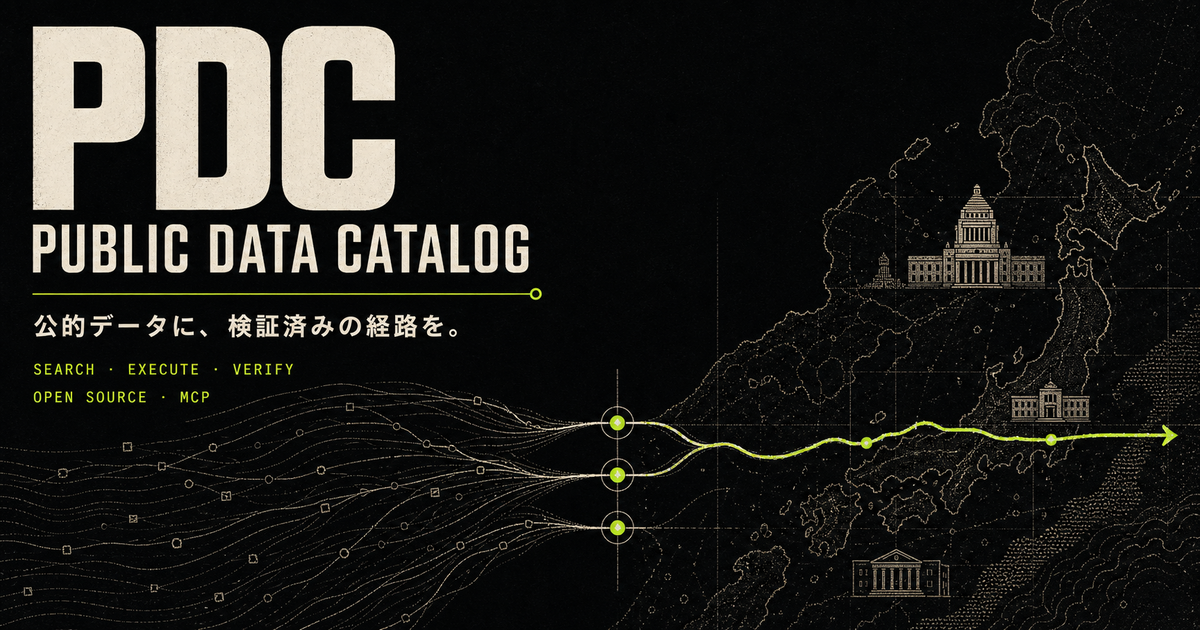
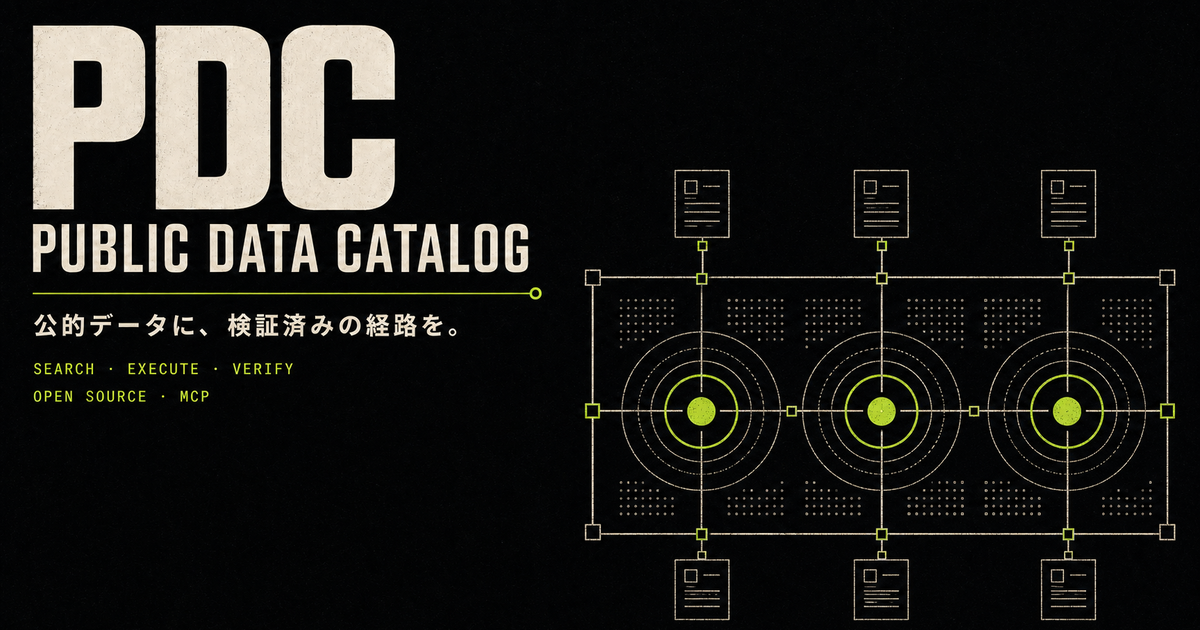
Replace geographic brand visual (#6)

diff --git a/public/index.html b/public/index.html
@@ -18,14 +18,14 @@
     />
     <meta
       property="og:image"
-      content="https://public-data-catalog-mcp.yusuke8h.workers.dev/og.png"
+      content="https://public-data-catalog-mcp.yusuke8h.workers.dev/og.png?v=audit-circuit"
     />
     <meta name="twitter:card" content="summary_large_image" />
     <meta name="twitter:title" content="PDC — Public Data Catalog" />
     <meta name="twitter:description" content="公的データに、検証済みの経路を。" />
     <meta
       name="twitter:image"
-      content="https://public-data-catalog-mcp.yusuke8h.workers.dev/og.png"
+      content="https://public-data-catalog-mcp.yusuke8h.workers.dev/og.png?v=audit-circuit"
     />
     <link rel="canonical" href="https://public-data-catalog-mcp.yusuke8h.workers.dev/" />
     <link rel="icon" href="/icon.svg" type="image/svg+xml" />
@@ -186,10 +186,10 @@
             width="1200"
             height="630"
             loading="lazy"
-            alt="複数の公的データ源が検証点を通り、一本の経路へ収束するPDCのブランドビジュアル"
+            alt="検索・実行・検証の三つのチェックポイントを閉じた監査回路で示すPDCのブランドビジュアル"
           />
           <figcaption>
-            FROM MANY SOURCES TO ONE REVIEWED ROUTE
+            SEARCH · EXECUTE · VERIFY / CLOSED AUDIT CIRCUIT
           </figcaption>
         </figure>
       </section>

diff --git a/docs/brand.md b/docs/brand.md
@@ -42,8 +42,10 @@ use the mark for unrelated data products.
 | Paper secondary | Warm gray | `#C7C1B6` |
 
 Signal lime marks actions, live state, and verification checkpoints. It should
-remain an accent rather than a large background. The graphic motif is many
-source paths converging through three checkpoints into one reviewed route.
+remain an accent rather than a large background. The graphic motif is a closed,
+non-directional audit circuit containing three checkpoints. It must not use
+maps, borders, coastlines, national symbols, or arrows that suggest data is
+moving toward a geographic destination.
 
 Use a heavy condensed sans serif for large display text, a neutral Japanese
 sans serif for prose, and monospace for contracts, endpoints, identifiers, and

diff --git a/README.md b/README.md
@@ -6,7 +6,7 @@
 [![Recipe probes](https://github.com/yhay81/public-data-catalog/actions/workflows/recipe-probes.yml/badge.svg)](https://github.com/yhay81/public-data-catalog/actions/workflows/recipe-probes.yml)
 [![License: MIT](https://img.shields.io/badge/License-MIT-yellow.svg)](./LICENSE)
 
-![公式データを検証済みの取得結果へ変換するPDCのブランドビジュアル](./public/og.png)
+![検索・実行・検証を閉じた監査回路で表すPDCのブランドビジュアル](./public/og.png)
 
 日本の公共データを中心に、AIや開発者が**具体的な問いから、根拠付きで再現可能な最初の取得まで**進むための、テスト済みレシピ集です。
 

diff --git a/README.en.md b/README.en.md
@@ -6,7 +6,7 @@
 [![Recipe probes](https://github.com/yhay81/public-data-catalog/actions/workflows/recipe-probes.yml/badge.svg)](https://github.com/yhay81/public-data-catalog/actions/workflows/recipe-probes.yml)
 [![License: MIT](https://img.shields.io/badge/License-MIT-yellow.svg)](./LICENSE)
 
-![PDC brand visual showing official public-data sources converging into a reviewed route](./public/og.png)
+![PDC brand visual showing three verification checkpoints inside a closed audit circuit](./public/og.png)
 
 Japanese-first, tested retrieval recipes that help developers and AI agents move from a concrete public-data question to a small, reproducible, attributable result.
 
